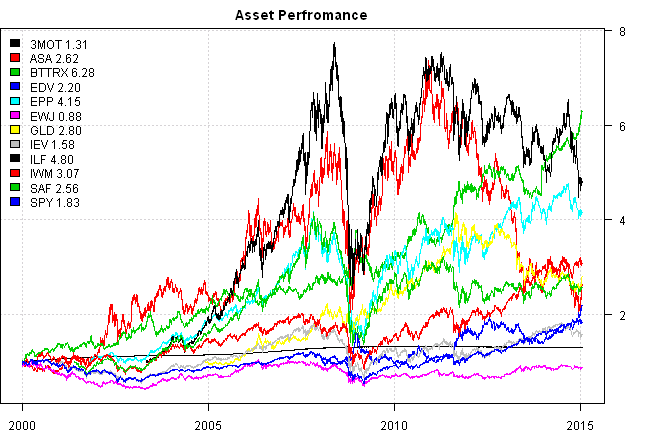
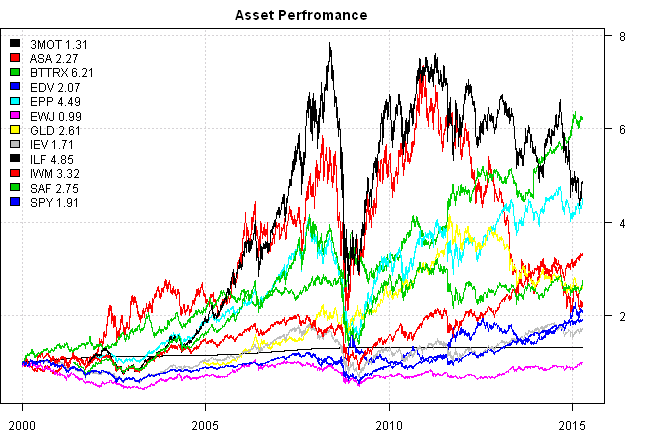
update blog post

diff --git a/_posts/2015-01-21-Backtesting-Trades.md b/_posts/2015-01-21-Backtesting-Trades.md
@@ -2,7 +2,6 @@
 layout: post
 title: Back-testing Trades
 comments: true
-rss: true
 ---
 
 
@@ -29,13 +28,13 @@ library(SIT)
 load.packages('quantmod')
 
 
-filename = 'decisionmoose.Rdata'
+filename = 'data/decisionmoose.Rdata'
 if(!file.exists(filename)) {
 	url = 'http://www.decisionmoose.com/Moosistory.html'
 	txt = join(readLines(url))
 
 	# extract transaction history
-	temp = extract.table.from.webpage(txt, 'Transaction History', hasHeader = F)
+	temp = extract.table.from.webpage(txt, 'Transaction History', has.header = F)
 		temp = trim(temp[-1,2:5])
  	colnames(temp) = spl('id,date,name,equity')
  
@@ -65,7 +64,7 @@ load(file=filename)
 tickers = unique(info$tickers)
 
 # load saved Proxies Raw Data, data.proxy.raw
-load('data.proxy.raw.Rdata')
+load('data/data.proxy.raw.Rdata')
 
 # define Cash (3moT) 3MOT = BIL+TB3M 
 tickers = gsub('3MOT','3MOT=BIL+TB3M', tickers)
@@ -148,16 +147,16 @@ print(plotbt.strategy.sidebyside(models, make.plot=F, return.table=T))
 
 |           |SPY               |decisionmoose     |
 |:----------|:-----------------|:-----------------|
-|Period     |Jan2000 - Jan2015 |Jan2000 - Jan2015 |
-|Cagr       |4.1               |19.05             |
-|Sharpe     |0.3               |0.94              |
-|DVR        |0.15              |0.92              |
-|Volatility |20.25             |20.27             |
+|Period     |Jan2000 - Apr2015 |Jan2000 - Apr2015 |
+|Cagr       |4.33              |18.31             |
+|Sharpe     |0.31              |0.91              |
+|DVR        |0.16              |0.89              |
+|Volatility |20.16             |20.29             |
 |MaxDD      |-55.19            |-24.43            |
-|AvgDD      |-2.64             |-4.21             |
-|VaR        |-2                |-2                |
-|CVaR       |-3.01             |-3                |
-|Exposure   |99.97             |97.65             |
+|AvgDD      |-2.55             |-4.28             |
+|VaR        |-1.98             |-2.01             |
+|CVaR       |-3                |-3                |
+|Exposure   |99.97             |97.68             |
     
 
 
@@ -177,28 +176,28 @@ print(last.trades(models$decisionmoose, smain='decisionmoose',make.plot=F, retur
 
 
 
-|decisionmoose |weight |entry.date |exit.date  |entry.price |exit.price |return |
-|:-------------|:------|:----------|:----------|:-----------|:----------|:------|
-|BTTRX         |100    |2011-09-30 |2012-02-10 | 72.26      | 71.63     |-0.87  |
-|IWM           |100    |2012-02-10 |2012-03-02 | 77.53      | 76.56     |-1.25  |
-|SPY           |100    |2012-03-02 |2012-05-04 |129.15      |129.42     | 0.21  |
-|BTTRX         |100    |2012-05-04 |2012-08-10 | 73.19      | 77.24     | 5.53  |
-|SPY           |100    |2012-08-10 |2012-09-21 |133.74      |139.25     | 4.12  |
-|GLD           |100    |2012-09-21 |2012-12-14 |171.96      |164.13     |-4.55  |
-|3MOT          |100    |2012-12-14 |2013-01-04 | 45.81      | 45.82     | 0.02  |
-|IEV           |100    |2013-01-04 |2013-02-08 | 37.25      | 38.00     | 2.02  |
-|3MOT          |100    |2013-02-08 |2013-05-10 | 45.81      | 45.80     |-0.02  |
-|EWJ           |100    |2013-05-10 |2013-05-31 | 11.47      | 10.58     |-7.76  |
-|IWM           |100    |2013-05-31 |2014-02-07 | 95.50      |109.33     |14.48  |
-|IEV           |100    |2014-02-07 |2014-03-07 | 44.94      | 46.86     | 4.26  |
-|IWM           |100    |2014-03-07 |2014-04-04 |118.17      |113.32     |-4.10  |
-|SPY           |100    |2014-04-04 |2014-04-11 |183.63      |178.82     |-2.62  |
-|EDV           |100    |2014-04-11 |2014-07-03 | 99.55      |100.51     | 0.96  |
-|ILF           |100    |2014-07-03 |2014-08-22 | 38.17      | 40.24     | 5.42  |
-|EDV           |100    |2014-08-22 |2014-09-05 |109.93      |108.78     |-1.05  |
-|ILF           |100    |2014-09-05 |2014-09-26 | 42.33      | 38.20     |-9.76  |
-|SPY           |100    |2014-09-26 |2014-10-10 |196.81      |189.49     |-3.72  |
-|EDV           |100    |2014-10-10 |2015-01-20 |114.80      |136.80     |19.16  |
+|decisionmoose |weight |entry.date |exit.date  |nhold |entry.price |exit.price |return |
+|:-------------|:------|:----------|:----------|:-----|:-----------|:----------|:------|
+|IWM           |100    |2012-02-10 |2012-03-02 | 21   | 77.53      | 76.56     |-1.25  |
+|SPY           |100    |2012-03-02 |2012-05-04 | 63   |128.57      |128.85     | 0.22  |
+|BTTRX         |100    |2012-05-04 |2012-08-10 | 98   | 73.19      | 77.24     | 5.53  |
+|SPY           |100    |2012-08-10 |2012-09-21 | 42   |133.14      |138.64     | 4.13  |
+|GLD           |100    |2012-09-21 |2012-12-14 | 84   |171.96      |164.13     |-4.55  |
+|3MOT          |100    |2012-12-14 |2013-01-04 | 21   | 45.81      | 45.82     | 0.02  |
+|IEV           |100    |2013-01-04 |2013-02-08 | 35   | 37.26      | 38.00     | 1.99  |
+|3MOT          |100    |2013-02-08 |2013-05-10 | 91   | 45.81      | 45.80     |-0.02  |
+|EWJ           |100    |2013-05-10 |2013-05-31 | 21   | 11.47      | 10.58     |-7.76  |
+|IWM           |100    |2013-05-31 |2014-02-07 |252   | 95.50      |109.33     |14.48  |
+|IEV           |100    |2014-02-07 |2014-03-07 | 28   | 44.94      | 46.85     | 4.25  |
+|IWM           |100    |2014-03-07 |2014-04-04 | 28   |118.17      |113.32     |-4.10  |
+|SPY           |100    |2014-04-04 |2014-04-11 |  7   |182.82      |178.02     |-2.63  |
+|EDV           |100    |2014-04-11 |2014-07-03 | 83   | 98.98      | 99.94     | 0.96  |
+|ILF           |100    |2014-07-03 |2014-08-22 | 50   | 38.17      | 40.24     | 5.42  |
+|EDV           |100    |2014-08-22 |2014-09-05 | 14   |109.30      |108.16     |-1.05  |
+|ILF           |100    |2014-09-05 |2014-09-26 | 21   | 42.33      | 38.20     |-9.76  |
+|SPY           |100    |2014-09-26 |2014-10-10 | 14   |195.94      |188.65     |-3.72  |
+|EDV           |100    |2014-10-10 |2015-03-13 |154   |114.15      |124.09     | 8.71  |
+|EWJ           |100    |2015-03-13 |2015-04-10 | 28   | 12.48      | 12.94     | 3.69  |
     
 
 
@@ -208,4 +207,4 @@ print(last.trades(models$decisionmoose, smain='decisionmoose',make.plot=F, retur
 
 
 
-*(this report was produced on: 2015-01-22)*
+*(this report was produced on: 2015-04-11)*
